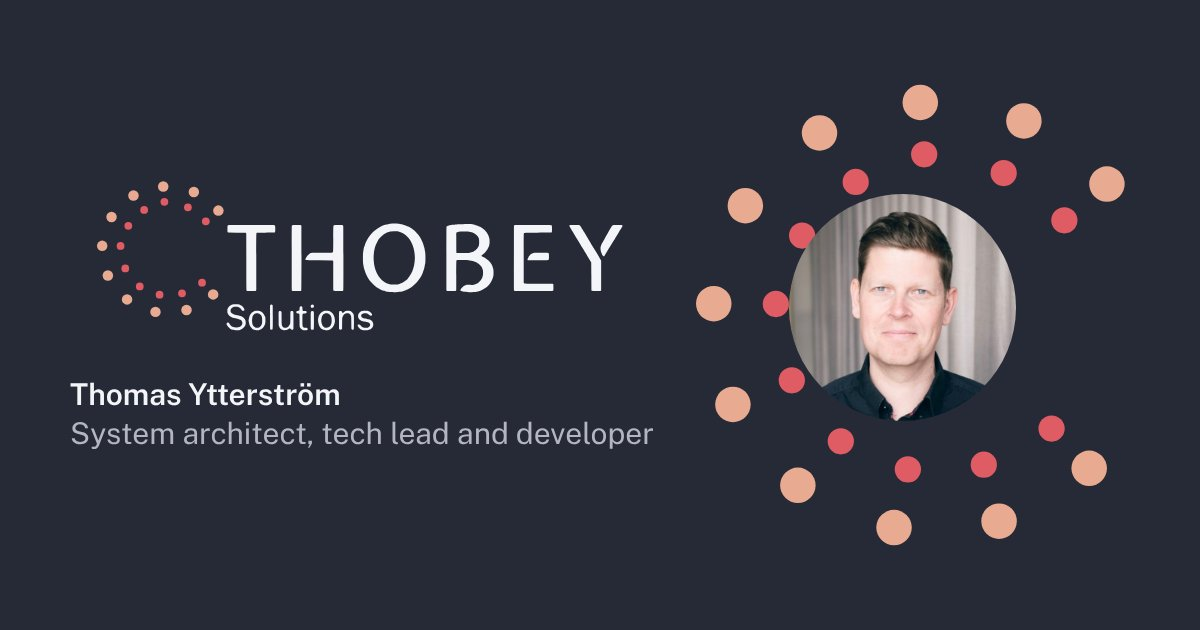
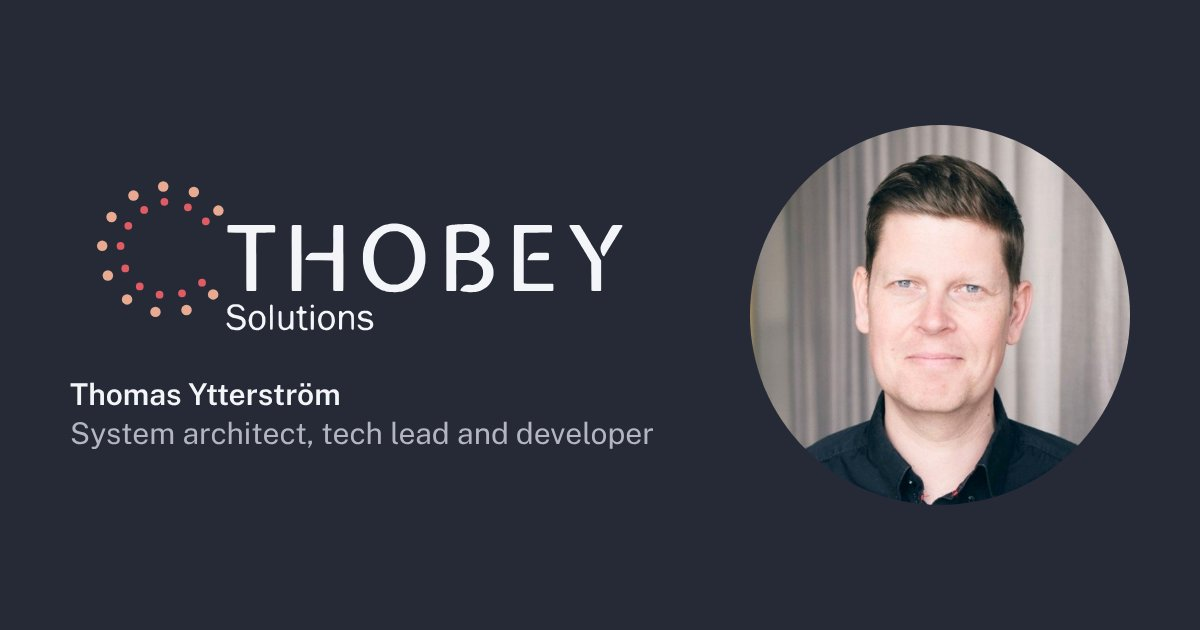
Show the portrait as a plain round photo, without the dot ring
Claude-Session: https://claude.ai/code/session_015dU5bPTEwNjmHQcubeJzpT

Changed region(s): [[0.555, 0.1206, 0.9558, 0.8746]]

diff --git a/styles.css b/styles.css
@@ -117,13 +117,8 @@ p { text-wrap: pretty; }
 .hero-text { grid-column: 1 / span 6; padding-bottom: 0.25rem; }
 .hero-role { font-size: var(--step-lead); line-height: 1.25; font-weight: 600; max-width: 22ch; }
 .hero-lead { margin-top: 1rem; max-width: 34ch; }
-.portrait { grid-column: 8 / span 5; justify-self: end; width: min(100%, calc(100svh - 17rem - 0.8 * var(--step-display))); }
-.portrait { position: relative; aspect-ratio: 1; }
-.ring { position: absolute; inset: 0; width: 100%; height: 100%; overflow: visible; }
-.ring .outer { fill: var(--peach); }
-.ring .inner { fill: var(--accent); }
-.portrait picture { position: absolute; left: 22.6%; top: 22.6%; width: 51.6%; aspect-ratio: 1; border-radius: 50%; overflow: hidden; }
-.portrait img { display: block; width: 100%; height: 100%; object-fit: cover; }
+.portrait { grid-column: 9 / span 4; justify-self: end; width: min(100%, calc(100svh - 20rem - 0.8 * var(--step-display))); overflow: hidden; border-radius: 50%; }
+.portrait img { display: block; width: 100%; height: auto; aspect-ratio: 1; object-fit: cover; border-radius: 50%; }
 
 .monument {
   font-family: var(--display);
@@ -297,7 +292,6 @@ p { text-wrap: pretty; }
   .hero-text > :nth-child(2) { animation-delay: 460ms; }
   .hero-text > :nth-child(3) { animation-delay: 540ms; }
   .portrait img { animation: settle 1800ms var(--ease-soft) both 200ms; }
-  .ring circle { transform-box: fill-box; transform-origin: center; animation: dot 700ms var(--ease-out) both; animation-delay: calc(300ms + var(--i) * 45ms); }
 
   .js [data-reveal] > * {
     opacity: 0;
@@ -322,7 +316,6 @@ p { text-wrap: pretty; }
 }
 @keyframes rise { from { opacity: 0; transform: translateY(0.35em); } to { opacity: 1; transform: none; } }
 @keyframes lift { from { opacity: 0; transform: translateY(20px); } to { opacity: 1; transform: none; } }
-@keyframes dot { from { opacity: 0; transform: scale(0.2); } to { opacity: 1; transform: none; } }
 @keyframes settle { from { transform: scale(1.08); } to { transform: none; } }
 
 /* Phone: its own composition */
@@ -334,7 +327,7 @@ p { text-wrap: pretty; }
   .hero { position: relative; }
   .hero-body { grid-row: 3; align-content: start; grid-template-columns: 1fr; row-gap: 1.75rem; padding-top: 1.75rem; padding-bottom: 2.5rem; }
   .hero-text, .portrait { grid-column: 1; }
-  .portrait { grid-row: 1; width: 86%; justify-self: start; margin-left: -5%; }
+  .portrait { grid-row: 1; width: 62%; justify-self: start; }
   .hero { grid-template-rows: auto auto 1fr; }
   .monument { grid-row: 2; white-space: normal; line-height: 0.82; margin: 1.5rem 0 0; }
   .monument span { display: block; }

diff --git a/sv/index.html b/sv/index.html
@@ -44,7 +44,6 @@
       <p class="hero-lead">Jag hjälper organisationer att bygga mjukvara som håller, och att få verklig nytta av AI i utvecklingsarbetet.</p>
     </div>
     <figure class="portrait">
-      <svg class="ring" viewBox="24 7 124 124" aria-hidden="true"><circle class="outer" style="--i:0" cx="88.9" cy="9.1" r="5"/><circle class="inner" style="--i:1" cx="90.0" cy="23.7" r="3.7"/><circle class="outer" style="--i:2" cx="118.1" cy="14.3" r="5"/><circle class="inner" style="--i:3" cx="112.4" cy="29.0" r="3.7"/><circle class="outer" style="--i:4" cx="141.5" cy="32.1" r="5"/><circle class="inner" style="--i:5" cx="129.5" cy="42.3" r="3.7"/><circle class="inner" style="--i:6" cx="125.9" cy="101.0" r="3.7"/><circle class="outer" style="--i:7" cx="136.5" cy="112.2" r="5"/><circle class="inner" style="--i:8" cx="106.8" cy="111.2" r="3.7"/><circle class="outer" style="--i:9" cx="111.1" cy="127.1" r="5"/><circle class="inner" style="--i:10" cx="85.4" cy="112.5" r="3.7"/><circle class="outer" style="--i:11" cx="81.5" cy="128.9" r="5"/><circle class="inner" style="--i:12" cx="66.5" cy="104.6" r="3.7"/><circle class="outer" style="--i:13" cx="54.4" cy="117.0" r="5"/><circle class="inner" style="--i:14" cx="52.7" cy="87.4" r="3.7"/><circle class="outer" style="--i:15" cx="36.1" cy="94.2" r="5"/><circle class="outer" style="--i:16" cx="30.7" cy="65.8" r="5"/><circle class="inner" style="--i:17" cx="48.2" cy="65.9" r="3.7"/><circle class="outer" style="--i:18" cx="39.6" cy="38.2" r="5"/><circle class="inner" style="--i:19" cx="55.6" cy="46.6" r="3.7"/><circle class="outer" style="--i:20" cx="60.5" cy="17.7" r="5"/><circle class="inner" style="--i:21" cx="70.7" cy="31.5" r="3.7"/></svg>
       <picture>
         <source type="image/webp" srcset="../thomas-ytterstrom-320.webp 320w, ../thomas-ytterstrom-600.webp 600w" sizes="(max-width: 47.5em) 60vw, 28vw">
         <img src="../thomas-ytterstrom-600.jpg" srcset="../thomas-ytterstrom-320.jpg 320w, ../thomas-ytterstrom-600.jpg 600w" sizes="(max-width: 47.5em) 60vw, 28vw" width="600" height="600" alt="Porträtt av Thomas Ytterström" fetchpriority="high">

diff --git a/index.html b/index.html
@@ -44,7 +44,6 @@
       <p class="hero-lead">I help organizations build software that holds up, and get real value from AI in how they build it.</p>
     </div>
     <figure class="portrait">
-      <svg class="ring" viewBox="24 7 124 124" aria-hidden="true"><circle class="outer" style="--i:0" cx="88.9" cy="9.1" r="5"/><circle class="inner" style="--i:1" cx="90.0" cy="23.7" r="3.7"/><circle class="outer" style="--i:2" cx="118.1" cy="14.3" r="5"/><circle class="inner" style="--i:3" cx="112.4" cy="29.0" r="3.7"/><circle class="outer" style="--i:4" cx="141.5" cy="32.1" r="5"/><circle class="inner" style="--i:5" cx="129.5" cy="42.3" r="3.7"/><circle class="inner" style="--i:6" cx="125.9" cy="101.0" r="3.7"/><circle class="outer" style="--i:7" cx="136.5" cy="112.2" r="5"/><circle class="inner" style="--i:8" cx="106.8" cy="111.2" r="3.7"/><circle class="outer" style="--i:9" cx="111.1" cy="127.1" r="5"/><circle class="inner" style="--i:10" cx="85.4" cy="112.5" r="3.7"/><circle class="outer" style="--i:11" cx="81.5" cy="128.9" r="5"/><circle class="inner" style="--i:12" cx="66.5" cy="104.6" r="3.7"/><circle class="outer" style="--i:13" cx="54.4" cy="117.0" r="5"/><circle class="inner" style="--i:14" cx="52.7" cy="87.4" r="3.7"/><circle class="outer" style="--i:15" cx="36.1" cy="94.2" r="5"/><circle class="outer" style="--i:16" cx="30.7" cy="65.8" r="5"/><circle class="inner" style="--i:17" cx="48.2" cy="65.9" r="3.7"/><circle class="outer" style="--i:18" cx="39.6" cy="38.2" r="5"/><circle class="inner" style="--i:19" cx="55.6" cy="46.6" r="3.7"/><circle class="outer" style="--i:20" cx="60.5" cy="17.7" r="5"/><circle class="inner" style="--i:21" cx="70.7" cy="31.5" r="3.7"/></svg>
       <picture>
         <source type="image/webp" srcset="thomas-ytterstrom-320.webp 320w, thomas-ytterstrom-600.webp 600w" sizes="(max-width: 47.5em) 60vw, 28vw">
         <img src="thomas-ytterstrom-600.jpg" srcset="thomas-ytterstrom-320.jpg 320w, thomas-ytterstrom-600.jpg 600w" sizes="(max-width: 47.5em) 60vw, 28vw" width="600" height="600" alt="Portrait of Thomas Ytterström" fetchpriority="high">
